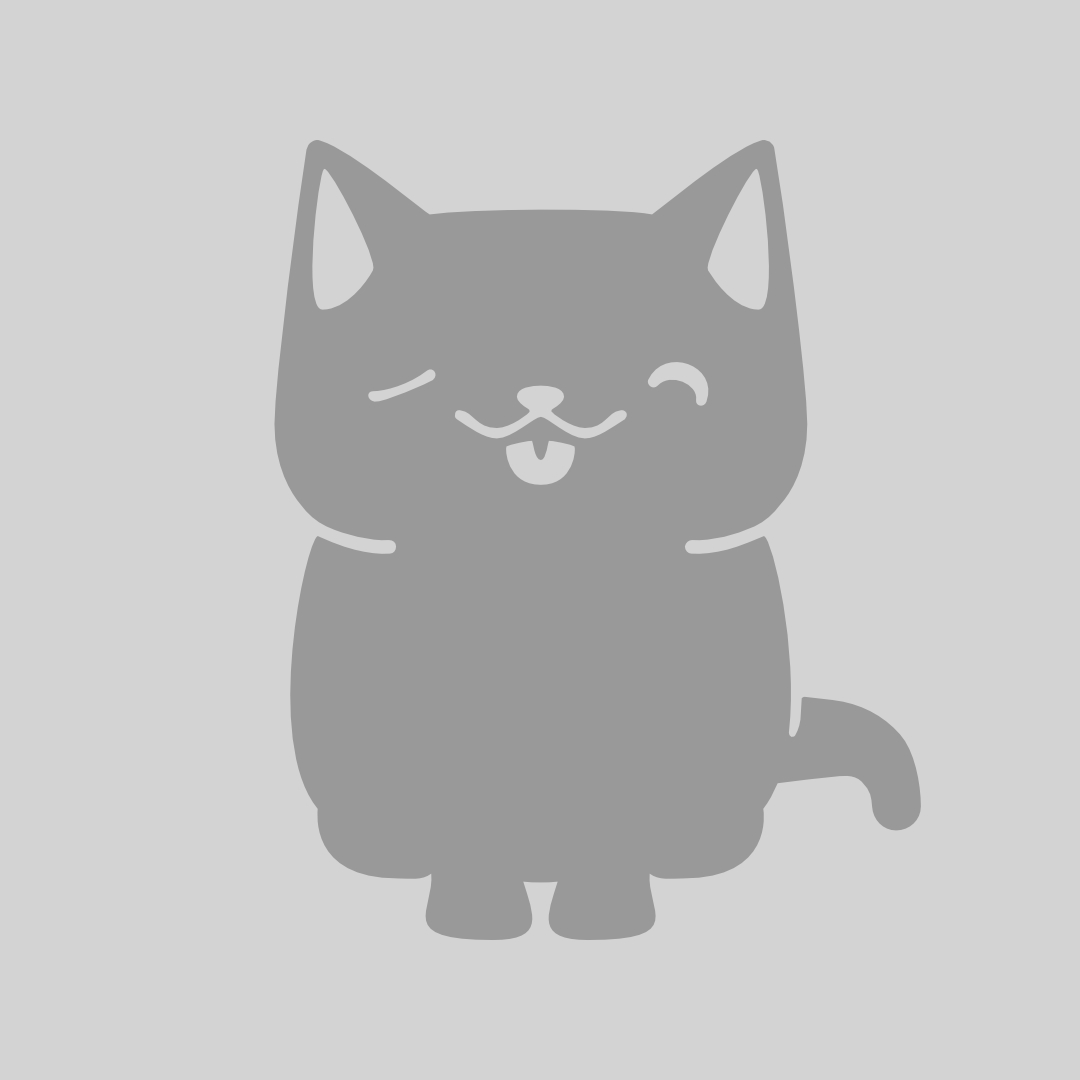
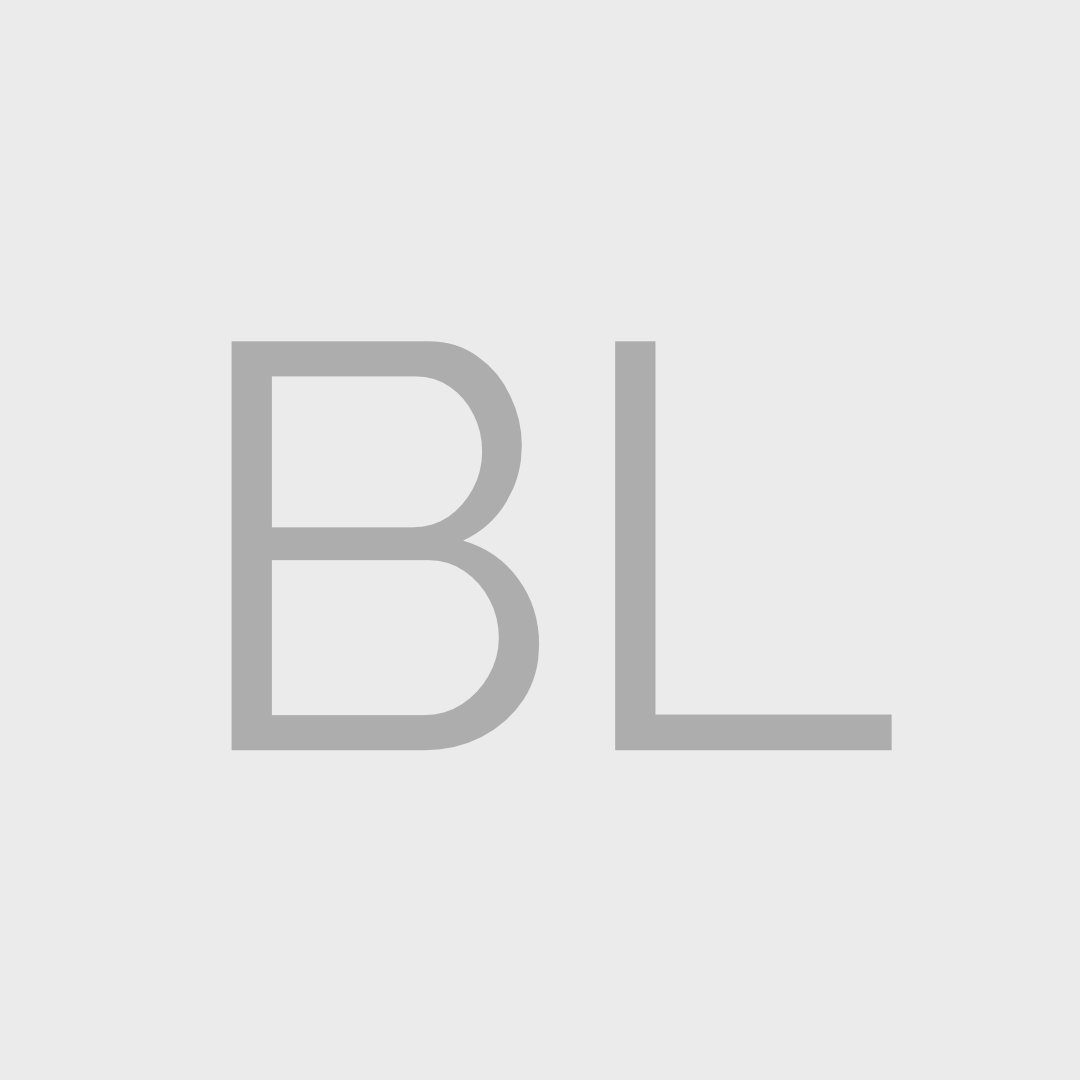
Added Grant

Changed region(s): [[0.2139, 0.1222, 0.8556, 0.8861]]

diff --git a/index.html b/index.html
@@ -434,6 +434,21 @@
                         </div>
                     </div>
                 </div>
+                <div class="w3-col m3 s6 w3-margin-bottom">
+                    <div class="w3-card">
+                        <img class="w3-image" src="img/portraits/Placeholder.jpg">
+                        <div class="w3-container">
+                            <h4>Grant Williams</h4>
+                        </div>
+                        <!-- Contact icons-->
+                        <div class="w3-bar">
+                            <!-- Email -->
+                            <a class="w3-button" href="mailto:grw50@case.edu">
+                                <i class="fa-solid fa-envelope"></i>
+                            </a>
+                        </div>
+                    </div>
+                </div>
             </div>
             <!--Alumni Information-->
             <h3 class="w3-center">Alumni</h3>
